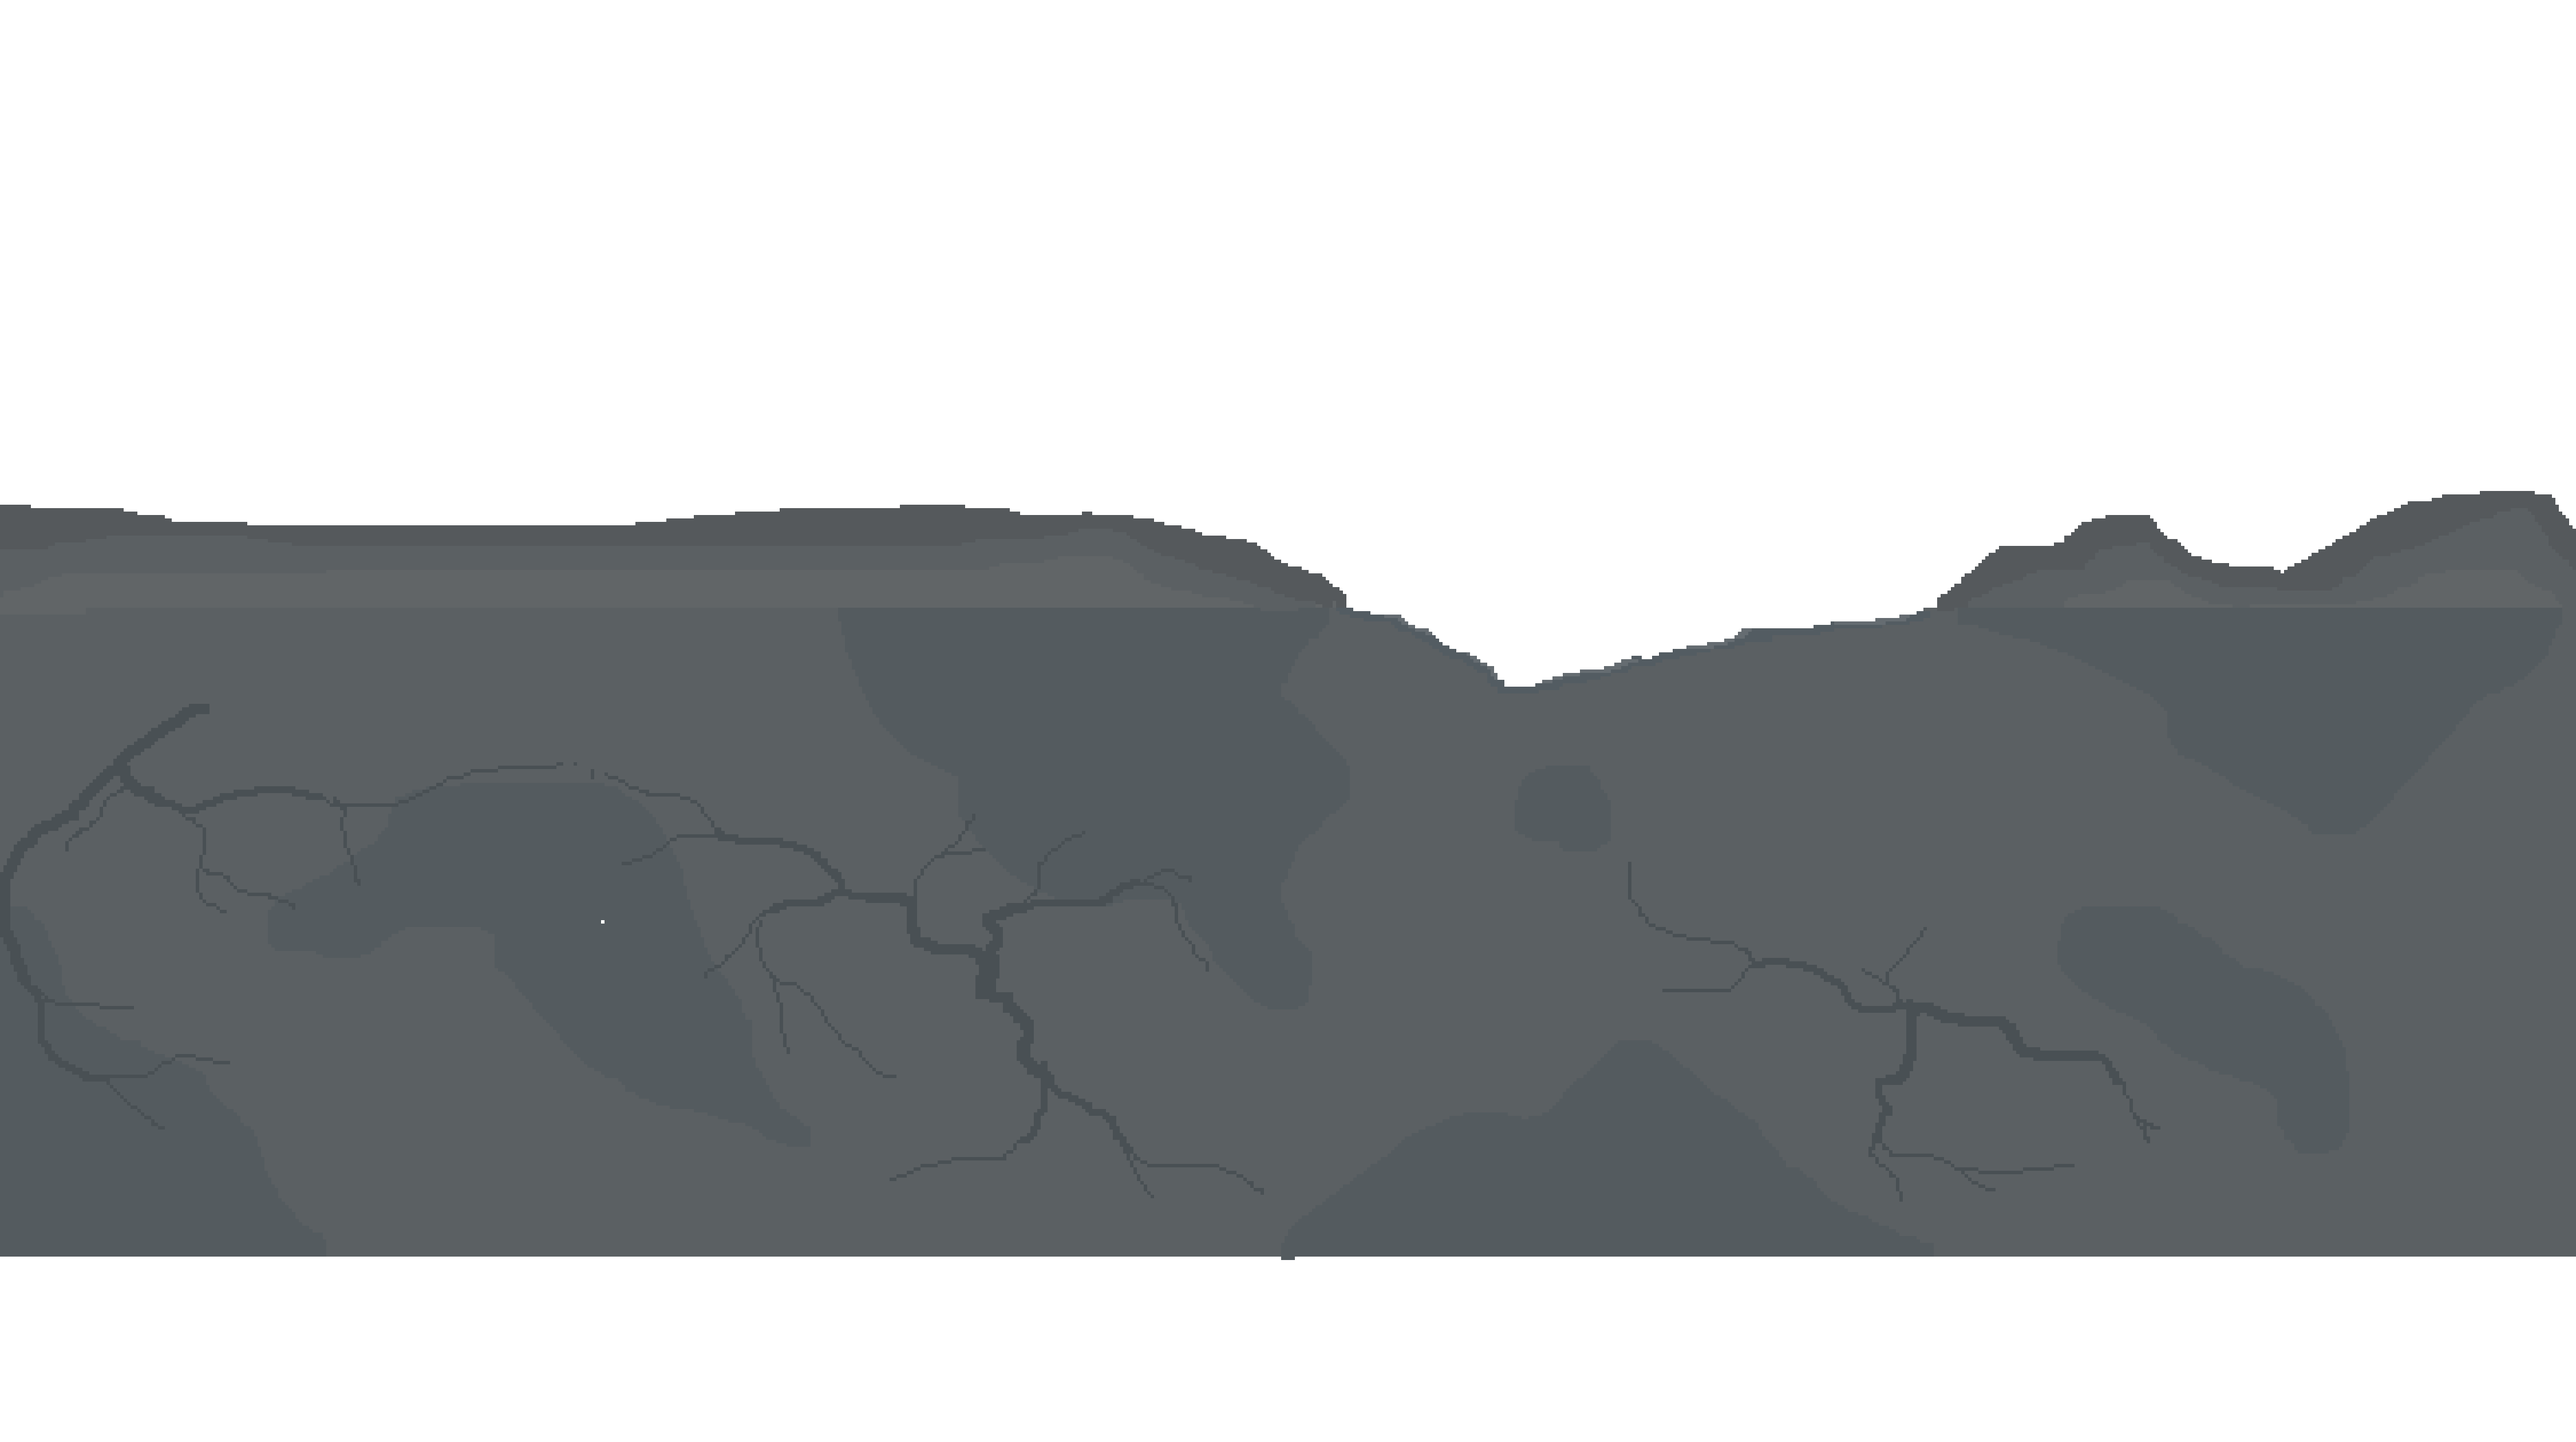
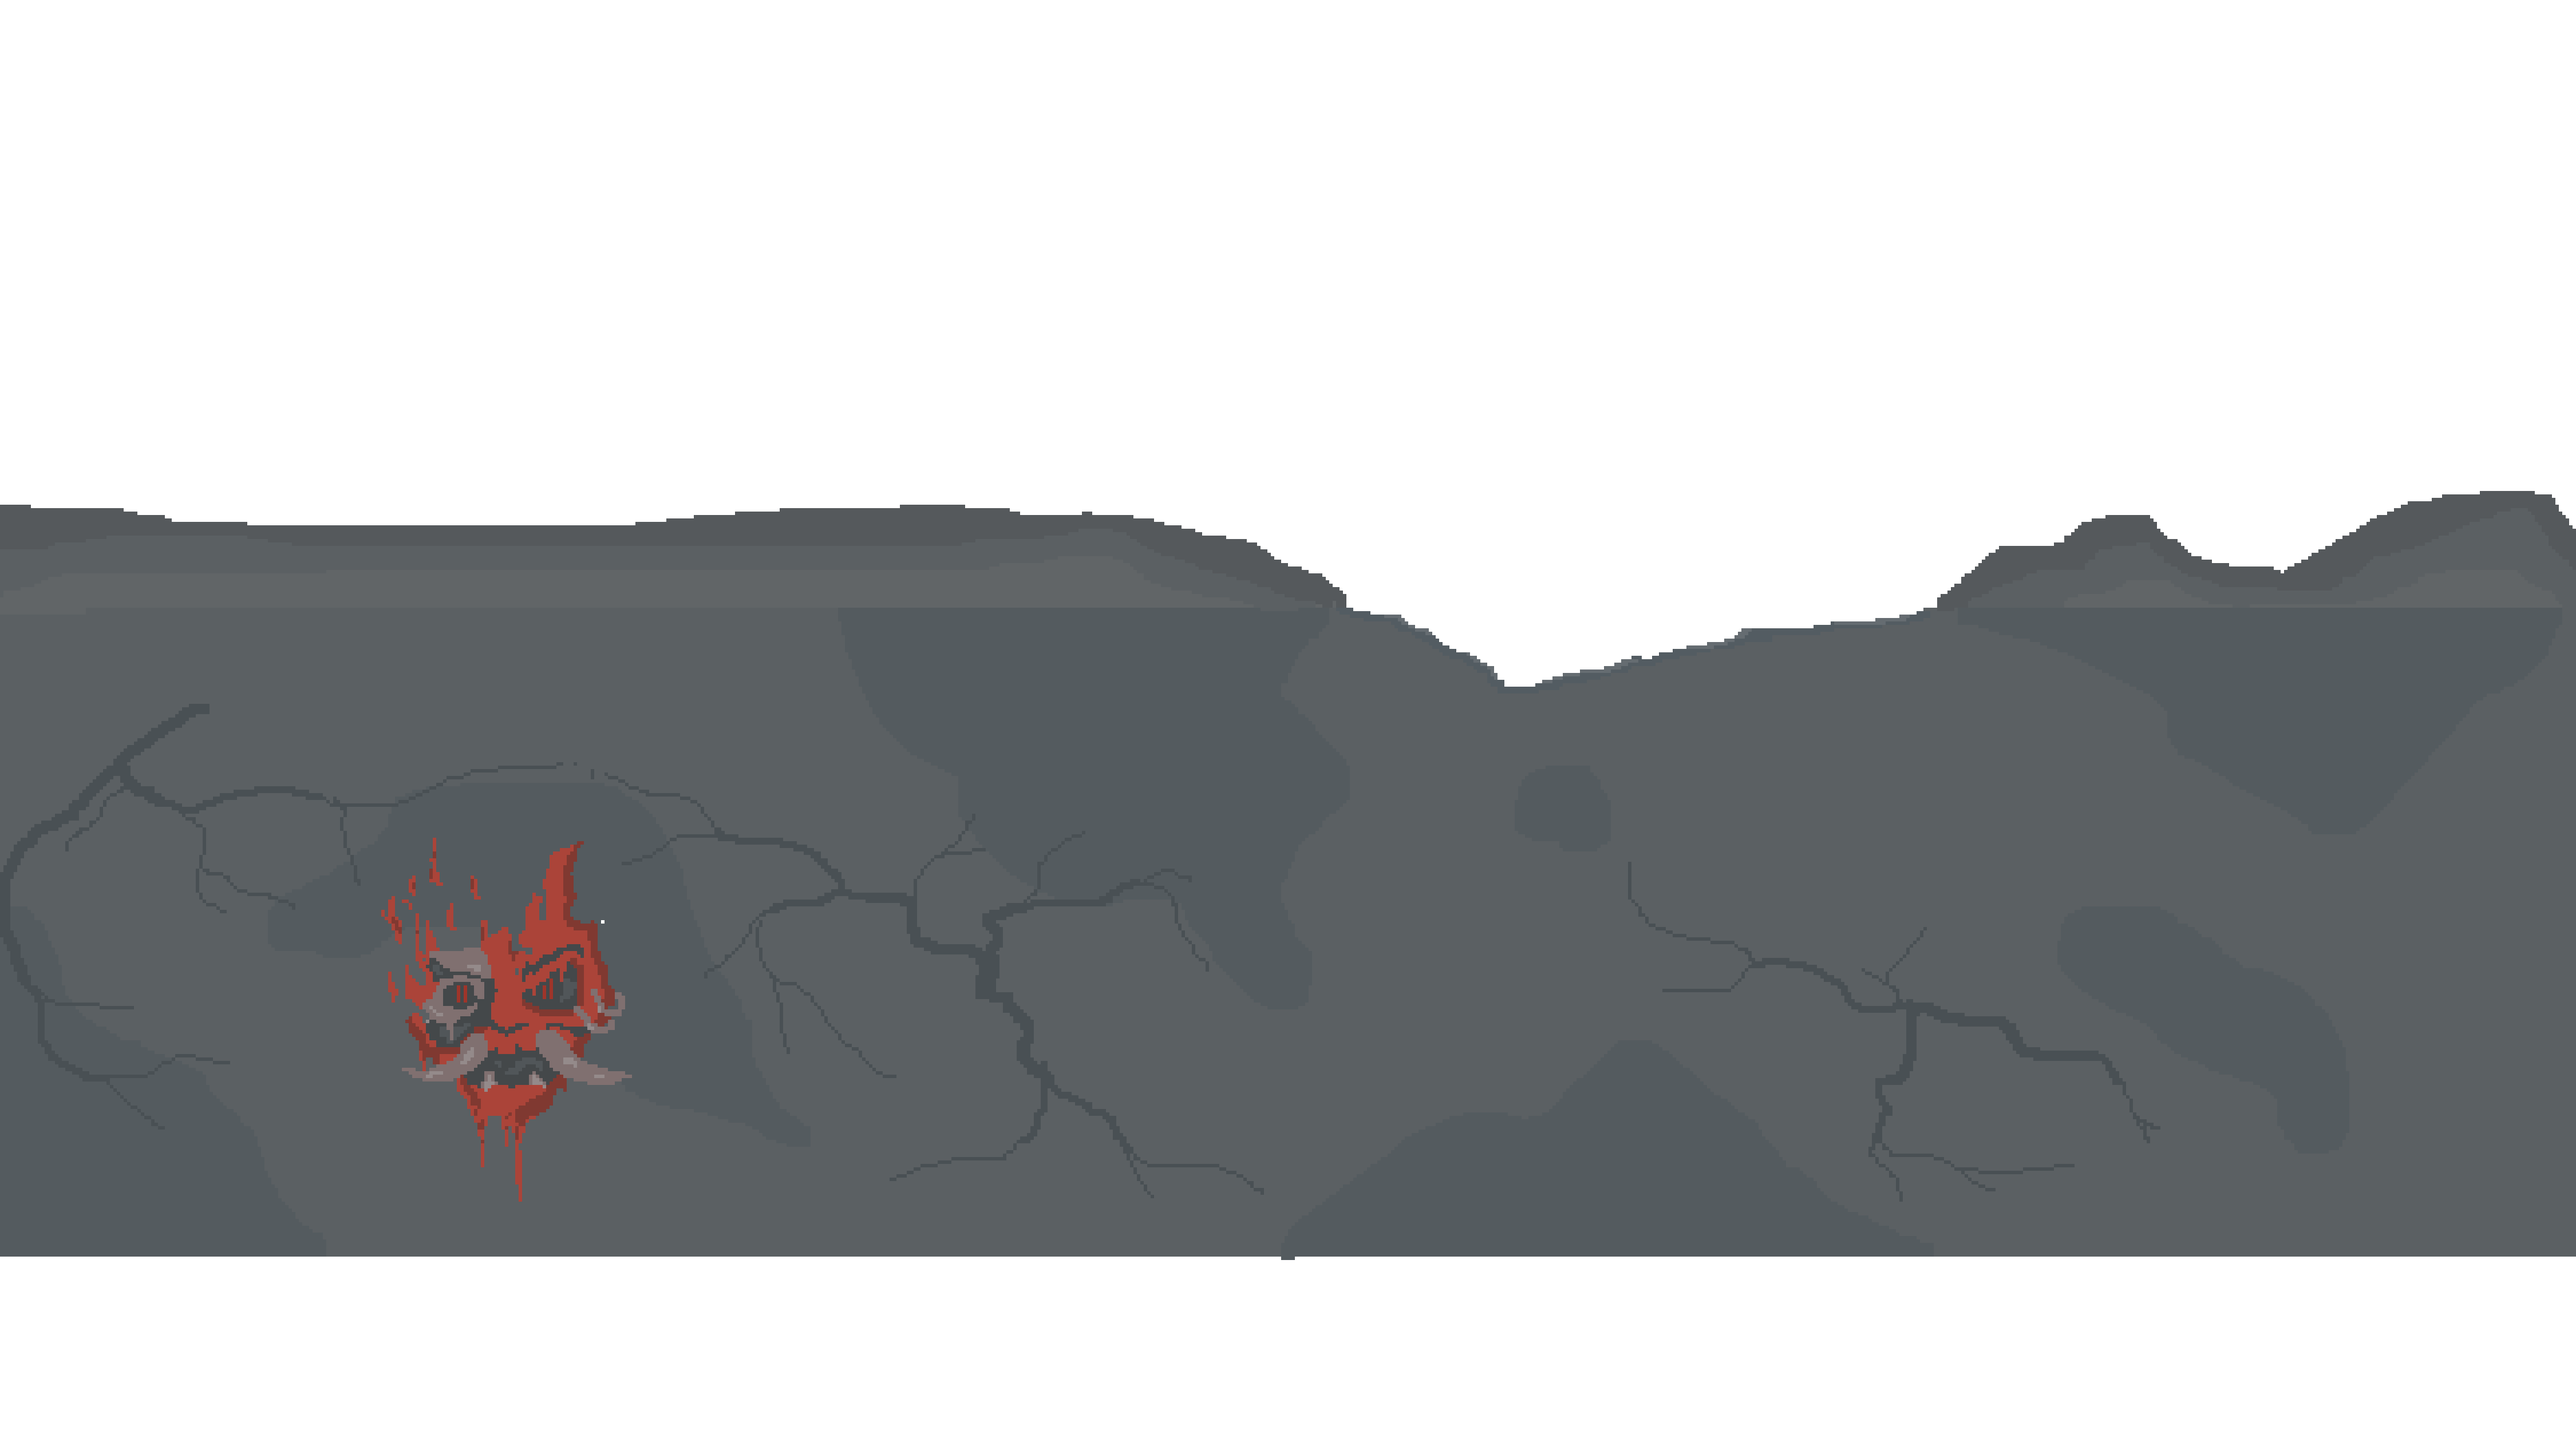
jump level 3

Changed region(s): [[0.1556, 0.5881, 0.2489, 0.8048]]

diff --git a/src/js/scenes/scene3/scenethree.js b/src/js/scenes/scene3/scenethree.js
@@ -1,4 +1,4 @@
-import { Actor, Engine, Vector, DisplayMode, ParallaxComponent, SolverStrategy, Scene } from "excalibur"
+import { Actor, Engine, Vector, DisplayMode, ParallaxComponent, SolverStrategy, Scene, CollisionType, EdgeCollider } from "excalibur"
 import { Resources, ResourceLoader } from '../../resources.js'
 import { Player } from '../../objects/player.js'
 import { Zombie } from '../../objects/zombie.js'
@@ -16,7 +16,7 @@ import { Wall } from "../../objects/wall.js"
 export class SceneThree extends Scene {
 
     player
-    music = Resources.track2
+    music = Resources.track1
     onInitialize(engine) {
 
 
@@ -29,45 +29,89 @@ export class SceneThree extends Scene {
         const wall1 = new Wall(330, 2000, -470, 1100)
         this.add(wall1)
 
-        const wall2 = new Wall(330, 2000, 4000, 1100)
+        const wall2 = new Wall(330, 1000, 3700, 1100)
         this.add(wall2)
 
-        const wall3 = new Wall(500, 700, 2664, 400)
-        this.add(wall3)
+        const box = new Floor(250, 200, 2464, 900)
+        this.add(box)
+
+        const slope1 = new Actor({
+            pos: new Vector(0, 0) // adjust position to match your scene
+        })
+        slope1.name = 'slope'
+        slope1.body.collisionType = CollisionType.Fixed
+        slope1.collider.set(new EdgeCollider({
+            begin: new Vector(2754, 520),    // bottom left point
+            end: new Vector(3004, 450)  // top right point
+        }))
+        this.add(slope1)
+
+        const slope2 = new Actor({
+            pos: new Vector(0, 0) // adjust position to match your scene
+
+        })
+        slope2.name = 'slope'
+        slope2.body.collisionType = CollisionType.Fixed
+        slope2.collider.set(new EdgeCollider({
+            begin: new Vector(3004, 450),    // bottom left point
+            end: new Vector(3404, 100)  // top right point
+        }))
+        this.add(slope2)
+
+        const slope3 = new Actor({
+            pos: new Vector(0, 0) // adjust position to match your scene
+        })
+        slope3.name = 'slope'
+        slope3.body.collisionType = CollisionType.Fixed
+        slope3.collider.set(new EdgeCollider({
+            begin: new Vector(3404, 100),    // bottom left point
+            end: new Vector(3704, 0)  // top right point
+        }))
+        this.add(slope3)
+
+        const slope4 = new Actor({
+            pos: new Vector(0, 0) // adjust position to match your scene
+        })
+        slope4.name = 'slope'
+        slope4.body.collisionType = CollisionType.Fixed
+        slope4.collider.set(new EdgeCollider({
+            begin: new Vector(3704, 0),    // bottom left point
+            end: new Vector(4000, 0)  // top right point
+        }))
+        this.add(slope4)
+
 
         //Background
 
 
-        const back = new Actor()
-        back.graphics.use(Resources.Scene2Background.toSprite())
-        back.scale = new Vector(2, 2)
-        back.pos = new Vector(engine.screen.resolution.width / 2, engine.screen.resolution.height / 2)
-        back.addComponent(new ParallaxComponent(new Vector(0.5, 1)))
-        this.add(back)
-
-
-
         const sky = new Actor()
-        sky.graphics.use(Resources.Scene2Sky.toSprite())
+        sky.graphics.use(Resources.Scene3Sky.toSprite())
         sky.scale = new Vector(0.8, 0.8)
-        sky.pos = new Vector(engine.screen.resolution.width / 2, engine.screen.resolution.height / 2)
-        sky.addComponent(new ParallaxComponent(new Vector(0.5, 1)))
+        sky.pos = new Vector(engine.screen.resolution.width / 2, engine.screen.resolution.height / 7)
+        sky.addComponent(new ParallaxComponent(new Vector(0.5, .9)))
         this.add(sky)
 
         const wall = new Actor()
-        wall.graphics.use(Resources.Scene2Wall.toSprite())
+        wall.graphics.use(Resources.Scene3Wall.toSprite())
         wall.scale = new Vector(0.8, 0.8)
-        wall.pos = new Vector(engine.screen.resolution.width / 2, engine.screen.resolution.height / 1.8)
-        wall.addComponent(new ParallaxComponent(new Vector(.51, 1)))
+        wall.pos = new Vector(engine.screen.resolution.width / 2, engine.screen.resolution.height / 7)
+        wall.addComponent(new ParallaxComponent(new Vector(.51, .9)))
         this.add(wall)
 
+
         const ground = new Actor()
-        ground.graphics.use(Resources.Scene2Floor.toSprite())
+        ground.graphics.use(Resources.Scene3Floor.toSprite())
         ground.scale = new Vector(0.8, 0.8)
-        ground.pos = new Vector(engine.screen.resolution.width / 2, engine.screen.resolution.height / 1.8)
-        ground.addComponent(new ParallaxComponent(new Vector(0.5, 1)))
+        ground.pos = new Vector(engine.screen.resolution.width / 2, engine.screen.resolution.height / 7)
+        ground.addComponent(new ParallaxComponent(new Vector(0.5, .9)))
         this.add(ground)
 
+        const objects = new Actor()
+        objects.graphics.use(Resources.Scene3Objects.toSprite())
+        objects.scale = new Vector(0.8, 0.8)
+        objects.pos = new Vector(engine.screen.resolution.width / 2, engine.screen.resolution.height / 7)
+        objects.addComponent(new ParallaxComponent(new Vector(0.5, .9)))
+        this.add(objects)
         //interactable objects
 
 
@@ -83,13 +127,20 @@ export class SceneThree extends Scene {
         const cam = this.currentScene && this.currentScene.camera ? this.currentScene.camera : this.camera
         cam.strategy.elasticToActor(this.player, 0.2, 0.6)
 
+
+        const shadows = new Actor()
+        shadows.graphics.use(Resources.Scene3Shadows.toSprite())
+        shadows.scale = new Vector(0.8, 0.8)
+        shadows.pos = new Vector(engine.screen.resolution.width / 2, engine.screen.resolution.height / 7)
+        shadows.addComponent(new ParallaxComponent(new Vector(0.52, 1)))
+        this.add(shadows)
+
         const foreground = new Actor()
-        foreground.graphics.use(Resources.Scene2Foreground.toSprite())
+        foreground.graphics.use(Resources.Scene3Foreground.toSprite())
         foreground.scale = new Vector(0.8, 0.8)
-        foreground.pos = new Vector(engine.screen.resolution.width / 2, engine.screen.resolution.height / 2)
+        foreground.pos = new Vector(engine.screen.resolution.width / 2, engine.screen.resolution.height / 7)
         foreground.addComponent(new ParallaxComponent(new Vector(0.52, 1)))
         this.add(foreground)
-
 
         const ui = new UI()
         this.add(ui)

diff --git a/src/js/objects/player.js b/src/js/objects/player.js
@@ -1,4 +1,4 @@
-import { Actor, Engine, Vector, Keys, DegreeOfFreedom, CollisionType, linear, ParallaxComponent, SpriteSheet, Sprite, range, AnimationStrategy, Animation } from "excalibur"
+import { Actor, Engine, Vector, Keys, EdgeCollider, DegreeOfFreedom, CollisionType, linear, ParallaxComponent, SpriteSheet, Sprite, range, AnimationStrategy, Animation } from "excalibur"
 import { Resources, ResourceLoader } from '../resources.js'
 import { Bullet } from './bullet.js'
 import { Zombie } from './zombie.js'
@@ -81,7 +81,7 @@ export class Player extends Actor {
 
     checkMovement(engine, delta) {
         let xAccel = 0;
-        let yAccel = 300;
+        let yAccel = 400;
 
         if (engine.input.keyboard.isHeld(Keys.A) && !this.stuck) {
             xAccel = -20; // Use an acceleration value instead of a massive direct velocity
@@ -104,19 +104,19 @@ export class Player extends Actor {
 
         if (engine.input.keyboard.wasPressed(Keys.C) && !this.stuck && !this.crouched) {
             const oldHeight = this.height
-            this.scale = new Vector (2.24, 2.24)
+            this.scale = new Vector(2.24, 2.24)
             const newHeight = this.height
 
-            this.pos.y += (oldHeight -  newHeight) / 2
+            this.pos.y += (oldHeight - newHeight) / 2
             this.crouched = true
             //Change Sprite
         } else if (engine.input.keyboard.wasPressed(Keys.C) && !this.stuck && this.crouched) {
             const oldHeight = this.height
-            this.scale = new Vector (4.5, 4.5)
+            this.scale = new Vector(4.5, 4.5)
             this.crouched = false
             const newHeight = this.height
 
-            this.pos.y += (oldHeight -  newHeight) / 2
+            this.pos.y += (oldHeight - newHeight) / 2
             //change sprite
         }
 
@@ -330,7 +330,7 @@ export class Player extends Actor {
     }
 
     onCollisionStart(event, other) {
-        if (other.owner instanceof Floor) {
+        if (other.owner instanceof Floor || other.owner.name === 'slope') {
             this.scene.engine.clock.schedule(() => {
                 this.grounded = true
             }, 500)
@@ -338,7 +338,7 @@ export class Player extends Actor {
     }
 
     onCollisionEnd(event, other) {
-        if (other.owner instanceof Floor) {
+        if (other.owner instanceof Floor || other.owner.name === 'slope') {
             this.grounded = false
         }
     }

diff --git a/src/js/resources.js b/src/js/resources.js
@@ -60,8 +60,7 @@ const Resources = {
     //Background
     Scene3Sky: new ImageSource('/images/scene3/backgroundImages/S-3-Sky.png'),
     Scene3Foreground: new ImageSource('/images/scene3/backgroundImages/S-3-Foreground.png'),
-    Scene3Wall: new ImageSource('/images/scene3/backgroundImages/S-3-Grafity.png'),
-    Scene3Grafity: new ImageSource('/images/scene3/backgroundImages/S-3-Wall.png'),
+    Scene3Wall: new ImageSource('/images/scene3/backgroundImages/S-3-Wall.png'),
     Scene3Floor: new ImageSource('/images/scene3/backgroundImages/S-3-Floor.png'),
     Scene3Objects: new ImageSource('/images/scene3/backgroundImages/S-3-Objects.png'),
     Scene3Shadows: new ImageSource('/images/scene3/backgroundImages/S-3-Shadows.png'),

diff --git a/src/js/game.js b/src/js/game.js
@@ -38,7 +38,7 @@ export class Game extends Engine {
         const scenethree = new SceneThree()
         this.add('scenethree', SceneThree)
 
-        this.goToScene('sceneone')
+        this.goToScene('scenethree')
 
 
 
